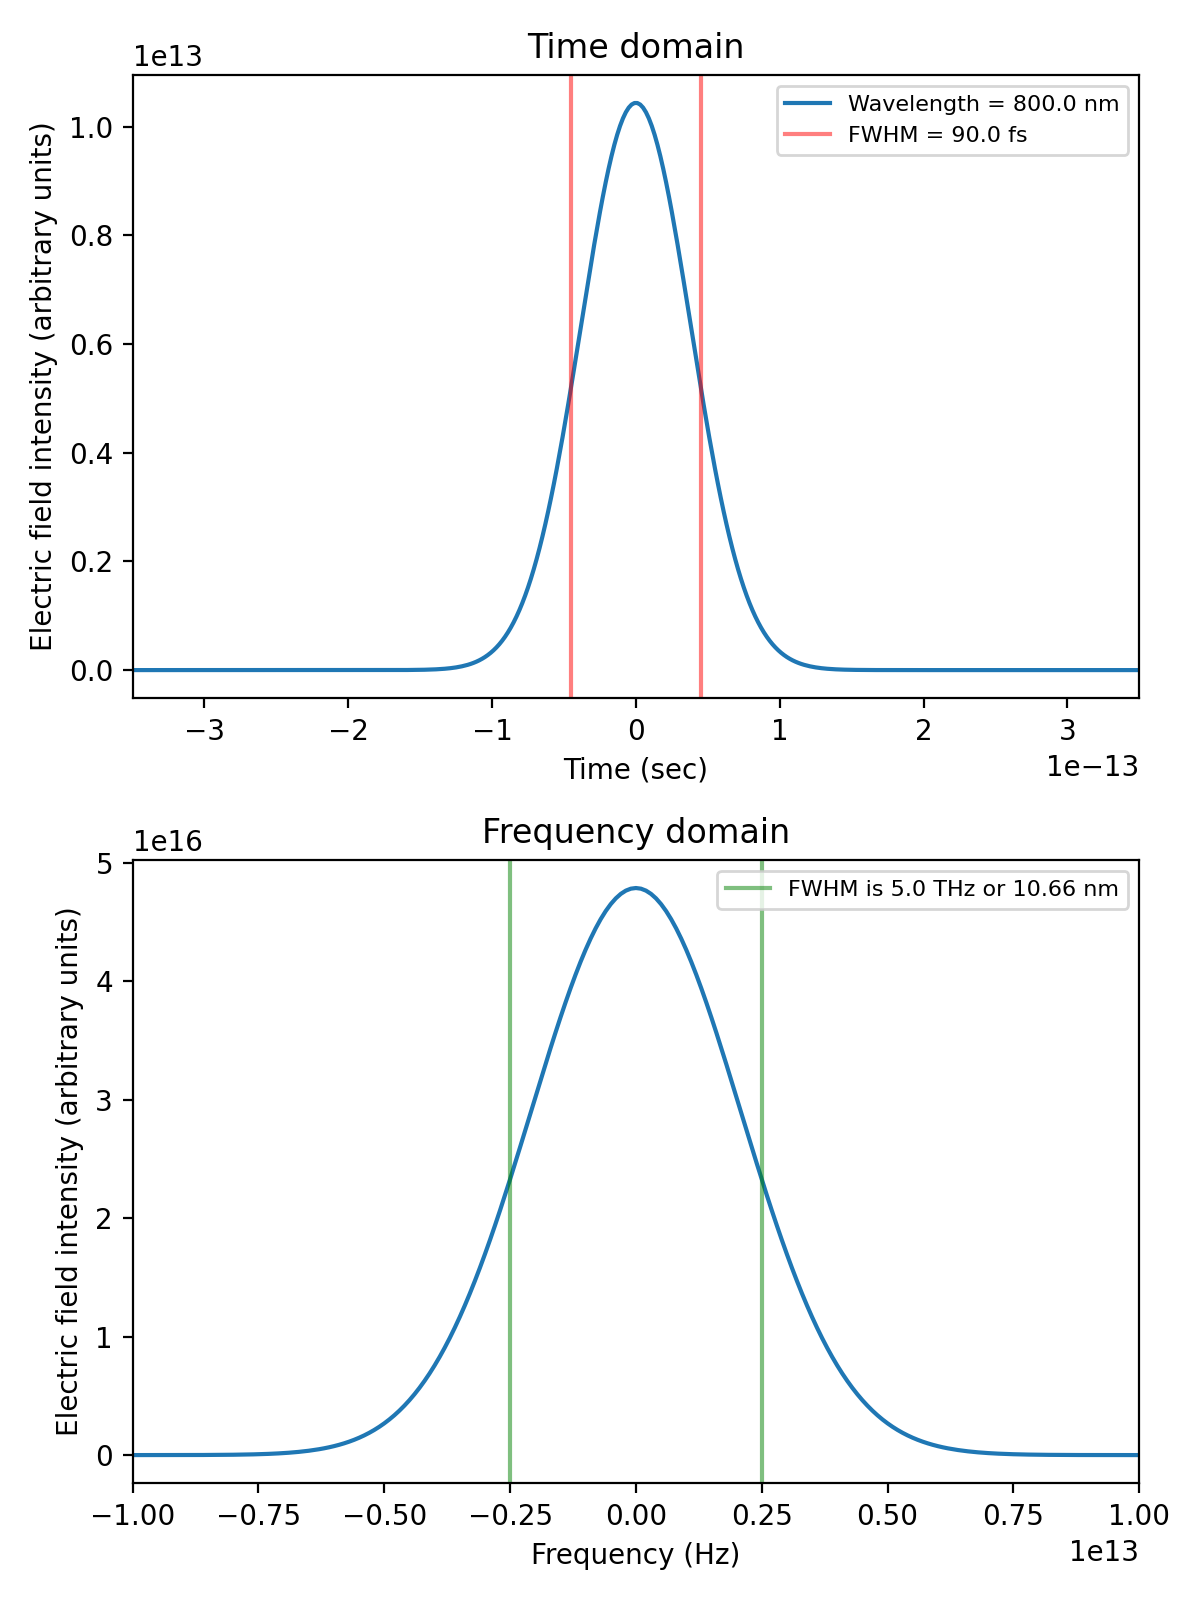
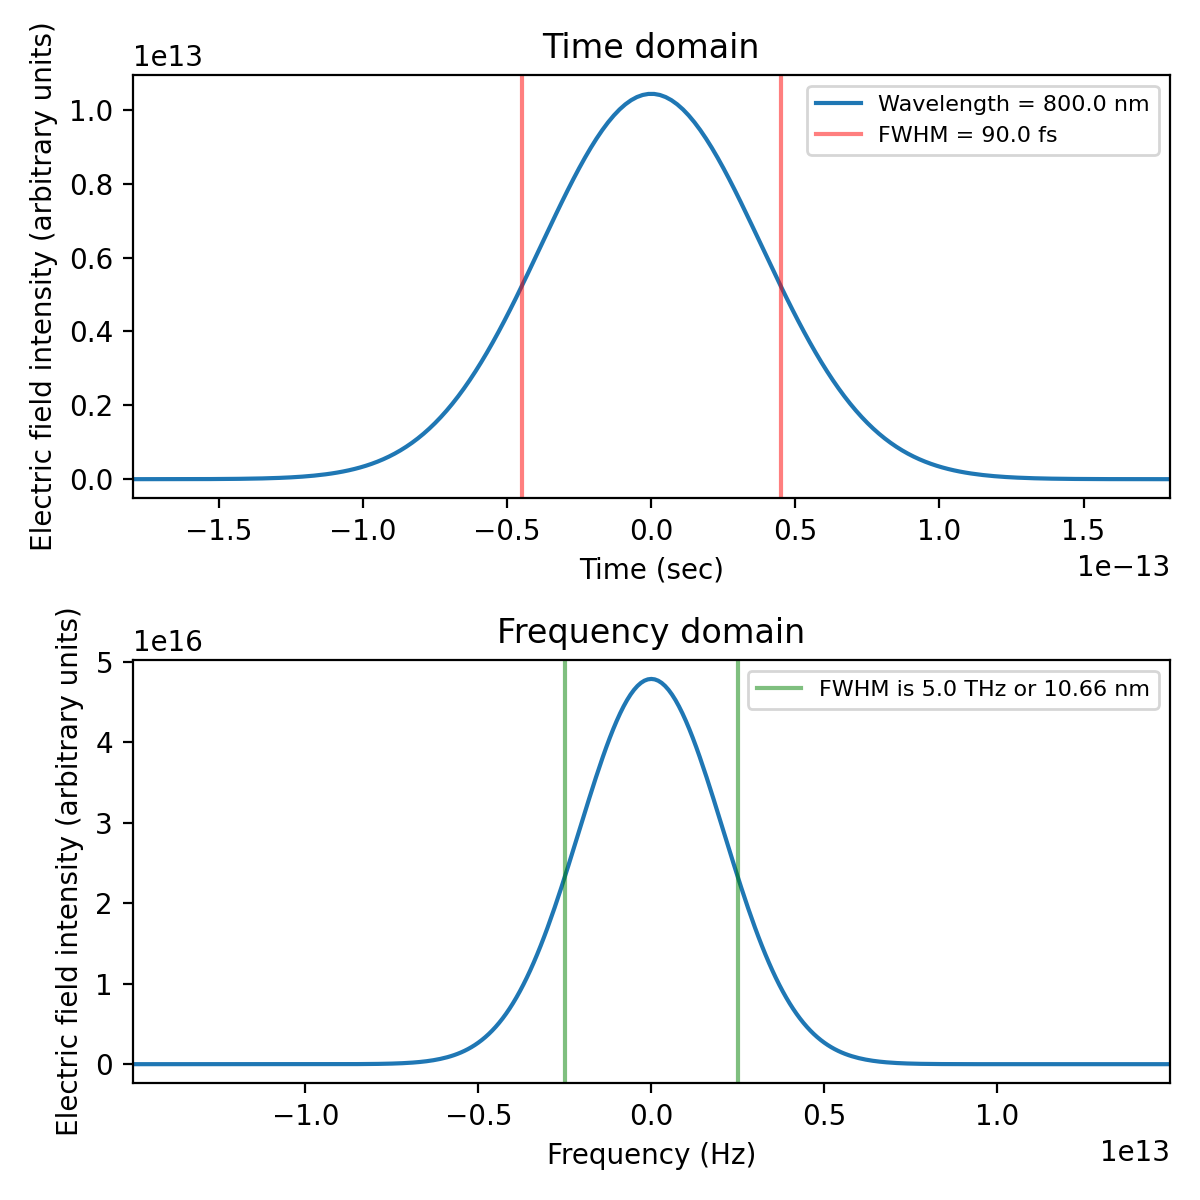
Fixed maths, added support for multiple layers and final plot

diff --git a/dispersion.py b/dispersion.py
@@ -11,6 +11,9 @@ class Pulse:
         self.IntensityTime = 1/((self.duration / 2.35482)*np.sqrt(2*np.pi))*np.exp(-self.time**2 / (2*(self.duration / 2.35482)**2))
         self.IntensityTimeTL = 1 / ((self.duration / 2.35482) * np.sqrt(2 * np.pi)) * np.exp(-self.time ** 2 / (2 * (self.duration / self.TL / 2.35482) ** 2))
         self.EfieldTime = np.sqrt(self.IntensityTimeTL)
+        self.IntensityTimePropagated = []
+        self.durationPropagated = 0
+        self.EfieldFrequency = None
 
 
     @property
@@ -20,6 +23,7 @@ class Pulse:
         self.frequency  = np.fft.fftshift(np.fft.fftfreq(self.EfieldFrequency.shape[0],self.time[1]-self.time[0]))
         self.FWHMfreq = 2 * np.abs(self.frequency[np.argmin(np.abs(0.5*np.max(self.IntensityFrequency)-self.IntensityFrequency))])
         self.FWHMwavelength = self.wavelength**2 * self.FWHMfreq/3e8
+        print("FWHM of initial pulse : " + str(self.duration * 10 ** 15) + " fs")
         return self.frequency, self.EfieldFrequency, self.IntensityFrequency, self.FWHMfreq, self.FWHMwavelength
 
 
@@ -41,29 +45,29 @@ class Pulse:
         nValues = [n(c * 10 ** 6 / i) for i in shiftedFreq]
         phaseTerm = [exp(i*n(c*10**6/i)*2*np.pi*thickness*-1j/c) for i in shiftedFreq]
         #phaseTerm = [exp(i/i *0* -1j) for i in shiftedFreq]
-        EfieldFrequencyPropagated = [a*b for a,b in zip(self.EfieldFrequency.real, phaseTerm)]
-        EfieldTimeOut = np.fft.ifft(np.fft.ifftshift(EfieldFrequencyPropagated))
-        IntensityOut = abs(EfieldTimeOut)**2
-        mu = self.time.dot(IntensityOut / IntensityOut.sum())
-        mu2 = np.power(self.time, 2).dot(IntensityOut / IntensityOut.sum())
+        self.EfieldFrequency = [a*b for a,b in zip(self.EfieldFrequency, phaseTerm)]
+        EfieldTimeOut = np.fft.ifft(np.fft.ifftshift(self.EfieldFrequency))
+        self.IntensityTimePropagated = abs(EfieldTimeOut)**2
+        mu = self.time.dot(self.IntensityTimePropagated / self.IntensityTimePropagated.sum())
+        mu2 = np.power(self.time, 2).dot(self.IntensityTimePropagated / self.IntensityTimePropagated.sum())
         var = mu2 - mu ** 2
-        print("FWHM of new pulse : " + str(2.35482 * sqrt(var) * 10 ** 15))
+        self.durationPropagated = 2.35482 * sqrt(var)
 
-        plt.plot(self.time, self.IntensityTime, "r", self.time, IntensityOut, "k-")
-        plt.show()
-
+        #print("FWHM of new pulse : " + str("%.2f" %self.durationPropagated) + " fs")
+        #plt.plot(self.time, self.IntensityTime, "r", self.time, self.IntensityTimePropagated, "k-")
+        #plt.show()
         
         # GVD = (self.wavelength*10**6)**3/(2*np.pi*(c)**2)*f.diff(x, 2) * 10**21
 
-    def plotPulses(self):
-        fig, axs = plt.subplots(2,1, figsize=(6,8))
+    def plotInitialPulse(self):
+        fig, axs = plt.subplots(2,1, figsize=(6,6))
 
         axs[0].set_title('Time domain')
         axs[0].plot(self.time, self.IntensityTime, label="Wavelength = %.1f nm"%(self.wavelength*10**9))
         axs[0].axvline(-self.duration*0.5, color='r', alpha=0.5, label='FWHM = %.1f fs'%(self.duration*1e15))
         axs[0].axvline(self.duration*0.5, color='r', alpha=0.5)
 
-        axs[0].set_xlim(-350e-15, 350e-15)
+        axs[0].set_xlim(-2*self.duration, 2*self.duration)
         #axs[0].set_ylim(0,1.3)
         axs[0].set_xlabel('Time (sec)')
 
@@ -73,7 +77,7 @@ class Pulse:
         axs[1].axvline(-self.FWHMfreq*0.5, color='g', alpha=0.5, label='FWHM is %.1f THz or %0.2f nm'%(self.FWHMfreq*10**-12, self.FWHMwavelength*10**9))
         axs[1].axvline( self.FWHMfreq*0.5, color='g', alpha=0.5)
 
-        axs[1].set_xlim(-1.0e13,1.0e13)
+        axs[1].set_xlim(-3*self.FWHMfreq,3*self.FWHMfreq)
         #axs[1].set_ylim(0,30000)
         axs[1].set_xlabel('Frequency (Hz)')
 
@@ -85,8 +89,27 @@ class Pulse:
         plt.savefig('time-bandwidth-product.png', dpi=200)
         plt.show()
 
+    def plotPropagatedPulse(self):
+        print("FWHM of propagated pulse : %.1f fs"%(self.durationPropagated*1e15))
+        peakIndex = np.argmax(self.IntensityTimePropagated)
+        PropagatedShift = int(-1*(len(self.IntensityTimePropagated)/2 - peakIndex))
+        PropagatedCentered = np.append(self.IntensityTimePropagated[PropagatedShift:], self.IntensityTimePropagated[:PropagatedShift])
+
+        fig, ax = plt.subplots(1, 1, figsize=(6, 6))
+        ax.set_title('Time domain')
+        ax.plot(self.time, self.IntensityTime/max(self.IntensityTime), label="Original pulse, length = %.1f fs"%(self.duration*1e15))
+        ax.plot(self.time, PropagatedCentered/max(self.IntensityTime), label="Propagated pulse, length = %.1f fs"%(self.durationPropagated*1e15))
+        ax.set_xlim(-2*float(self.durationPropagated), 2*float(self.durationPropagated))
+        ax.set_xlabel('Time (sec)')
+        ax.legend(fontsize=8)
+        ax.set_ylabel('Electric field intensity (arbitrary units)')
+        plt.tight_layout()
+        plt.show()
+
+
 if __name__ == "__main__":
     pulseTest = Pulse(90e-15, 1, 800e-9)
     pulseTest.frequencySpectra
+    pulseTest.plotInitialPulse()
     pulseTest.propagate("silica", 0.15)
-    pulseTest.plotPulses()
+    pulseTest.plotPropagatedPulse()
